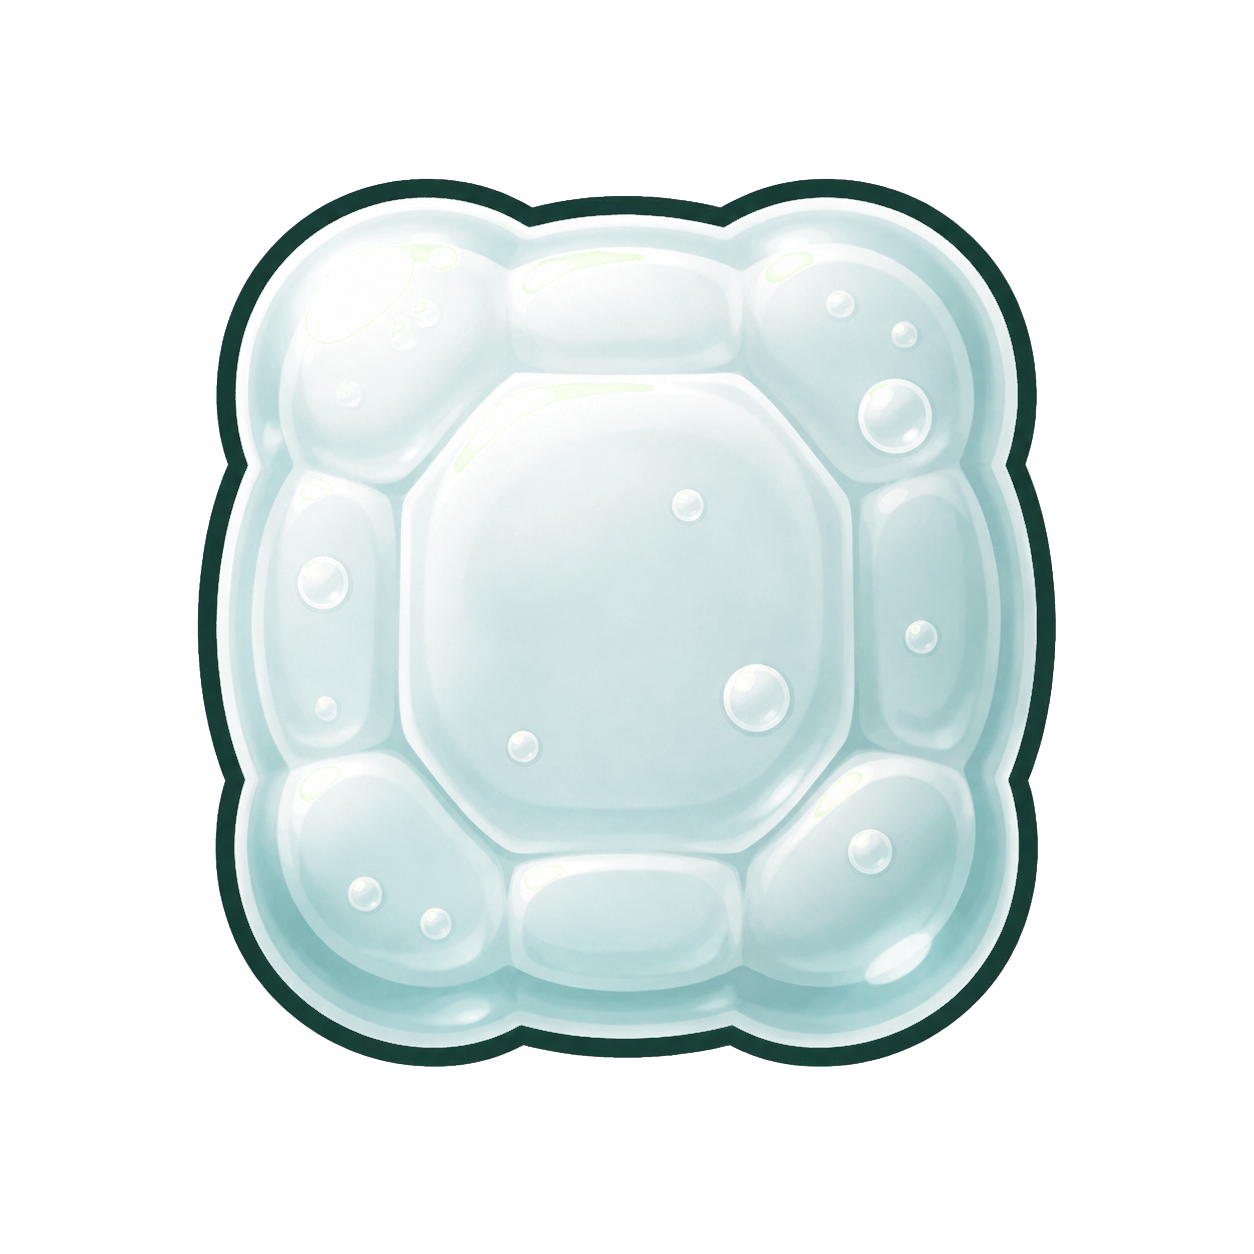
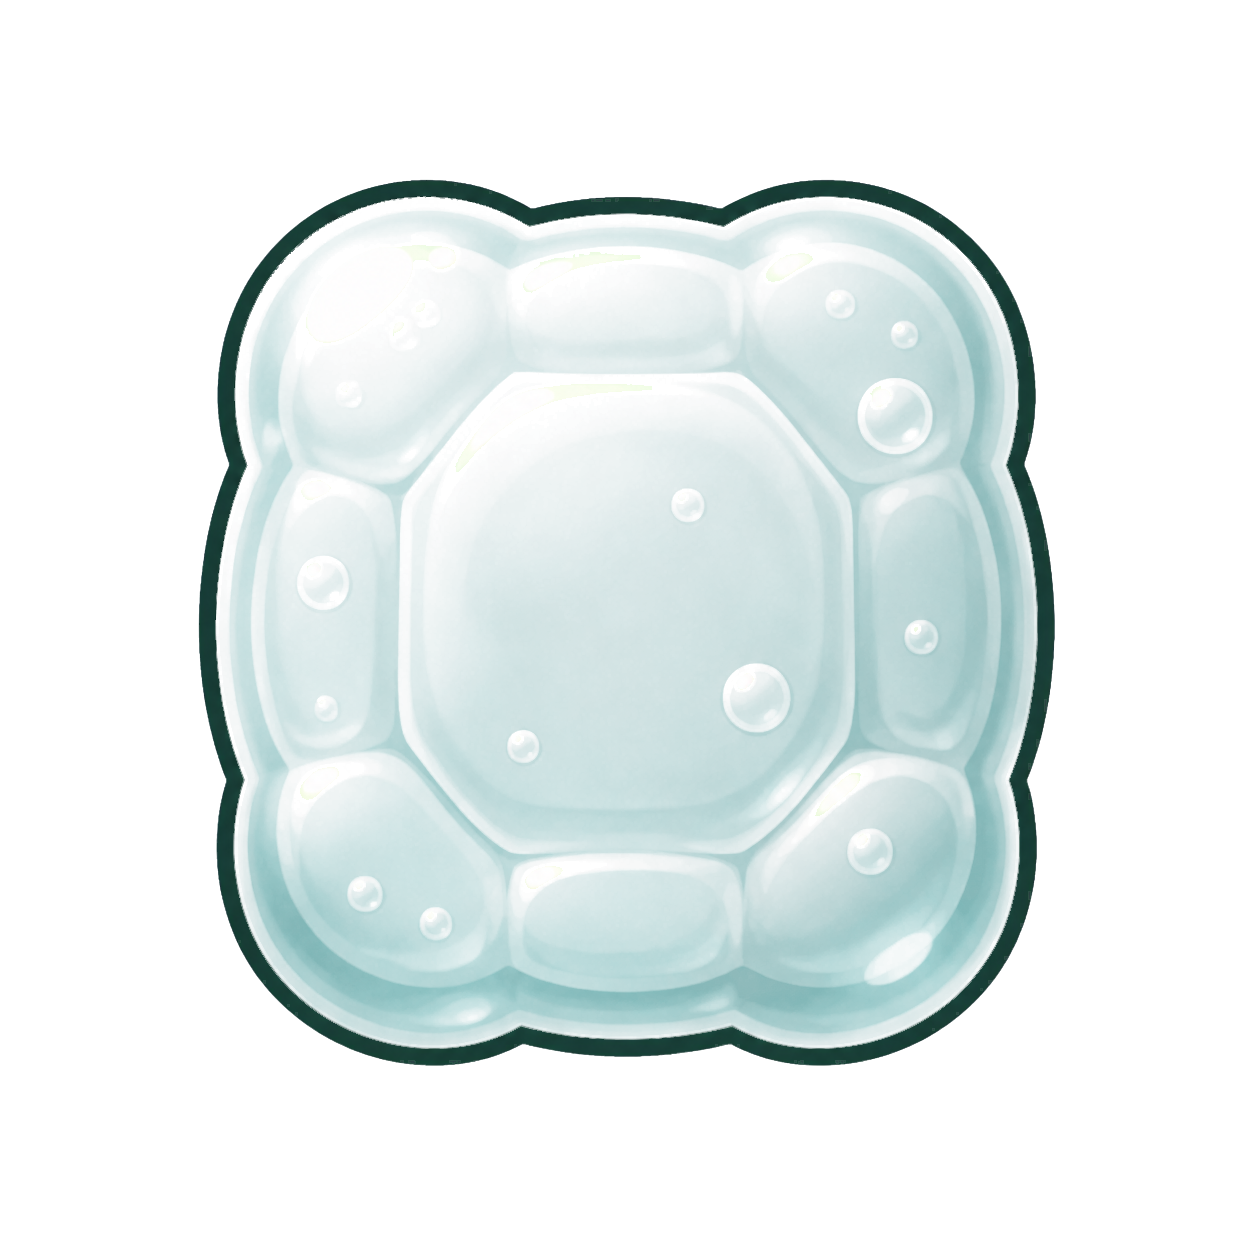
fix: 젤리 스프라이트 피드백 보정

diff --git a/lib/game/property_shot_game.dart b/lib/game/property_shot_game.dart
@@ -746,16 +746,16 @@ class PropertyShotGame extends FlameGame {
       final topPath = _pathFromPoints(topPoints);
       final litPaint = _materialPaint(entity, rect);
       final image = _objectImages[entity.type];
+      if (entity.traits.isNotEmpty &&
+          state.phase == GamePhase.planning &&
+          _animationPath.isEmpty) {
+        _drawSelectablePulse(canvas, entity);
+      }
       if (image != null) {
         _drawMovingObjectSprite(canvas, entity, rect, image);
       } else {
         _drawContactShadow(canvas, entity, rect);
         _drawDepthFaces(canvas, entity, topPoints);
-        if (entity.traits.isNotEmpty &&
-            state.phase == GamePhase.planning &&
-            _animationPath.isEmpty) {
-          _drawSelectablePulse(canvas, entity);
-        }
         if (entity.type == EntityType.bumper) {
           _drawJellyBody(canvas, entity, litPaint, stroke);
         } else if (entity.type == EntityType.stickySurface) {
@@ -1134,11 +1134,17 @@ class PropertyShotGame extends FlameGame {
     canvas.translate(center.dx, center.dy + motion.bob);
     canvas.rotate(motion.rotation);
     canvas.scale(motion.scaleX, motion.scaleY);
-    final target = Rect.fromCenter(
-      center: Offset.zero,
-      width: sprite.width,
-      height: sprite.height,
-    );
+    final target = entity.type == EntityType.bumper
+        ? Rect.fromCenter(
+            center: Offset.zero,
+            width: sprite.height,
+            height: sprite.height,
+          )
+        : Rect.fromCenter(
+            center: Offset.zero,
+            width: sprite.width,
+            height: sprite.height,
+          );
     final extrusion = switch (entity.type) {
       EntityType.weight => 8.0,
       EntityType.bumper => 4.0,
